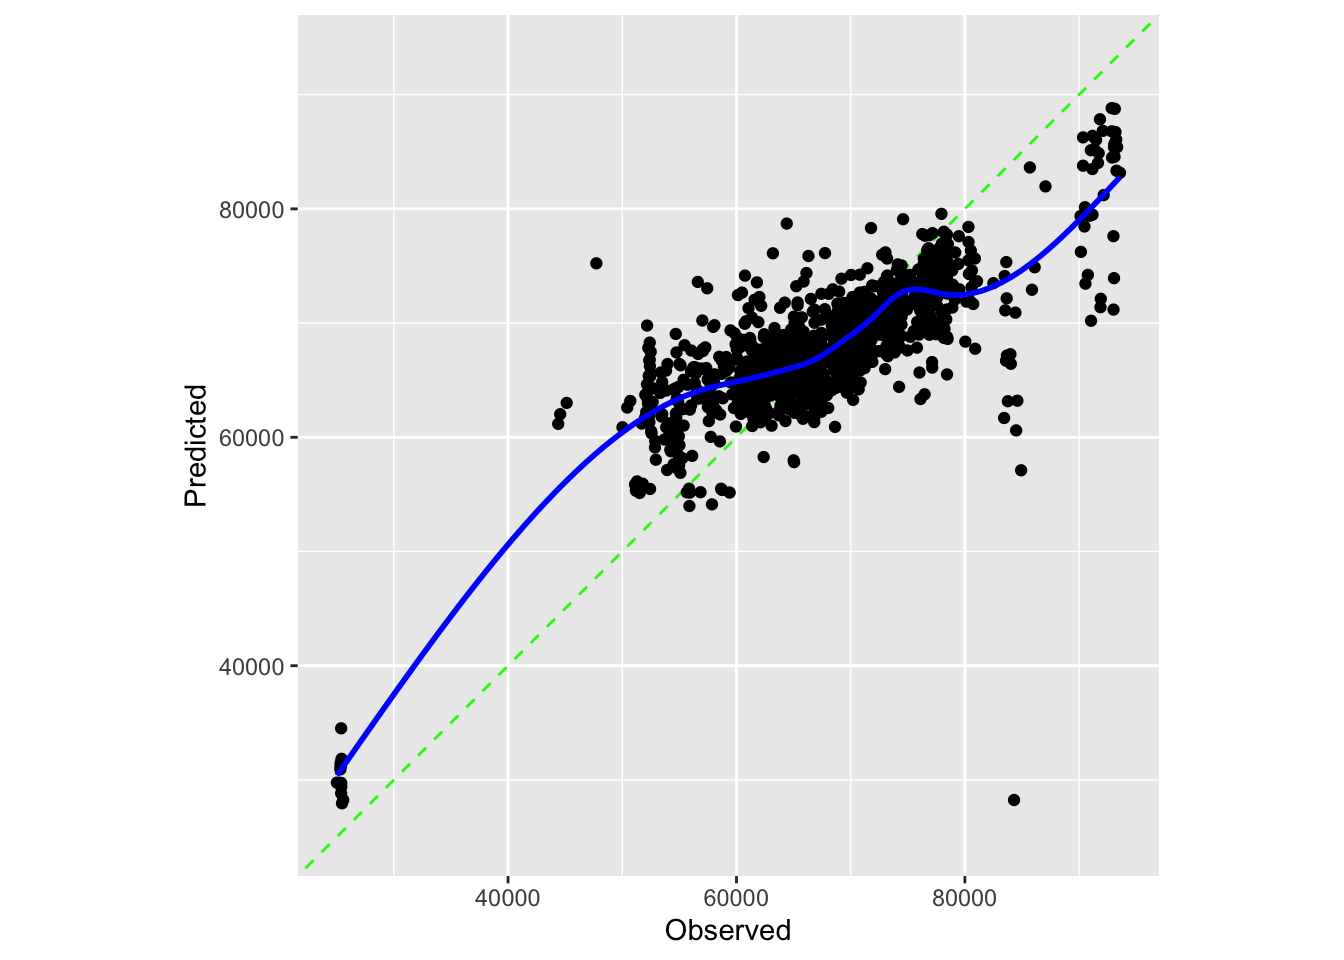
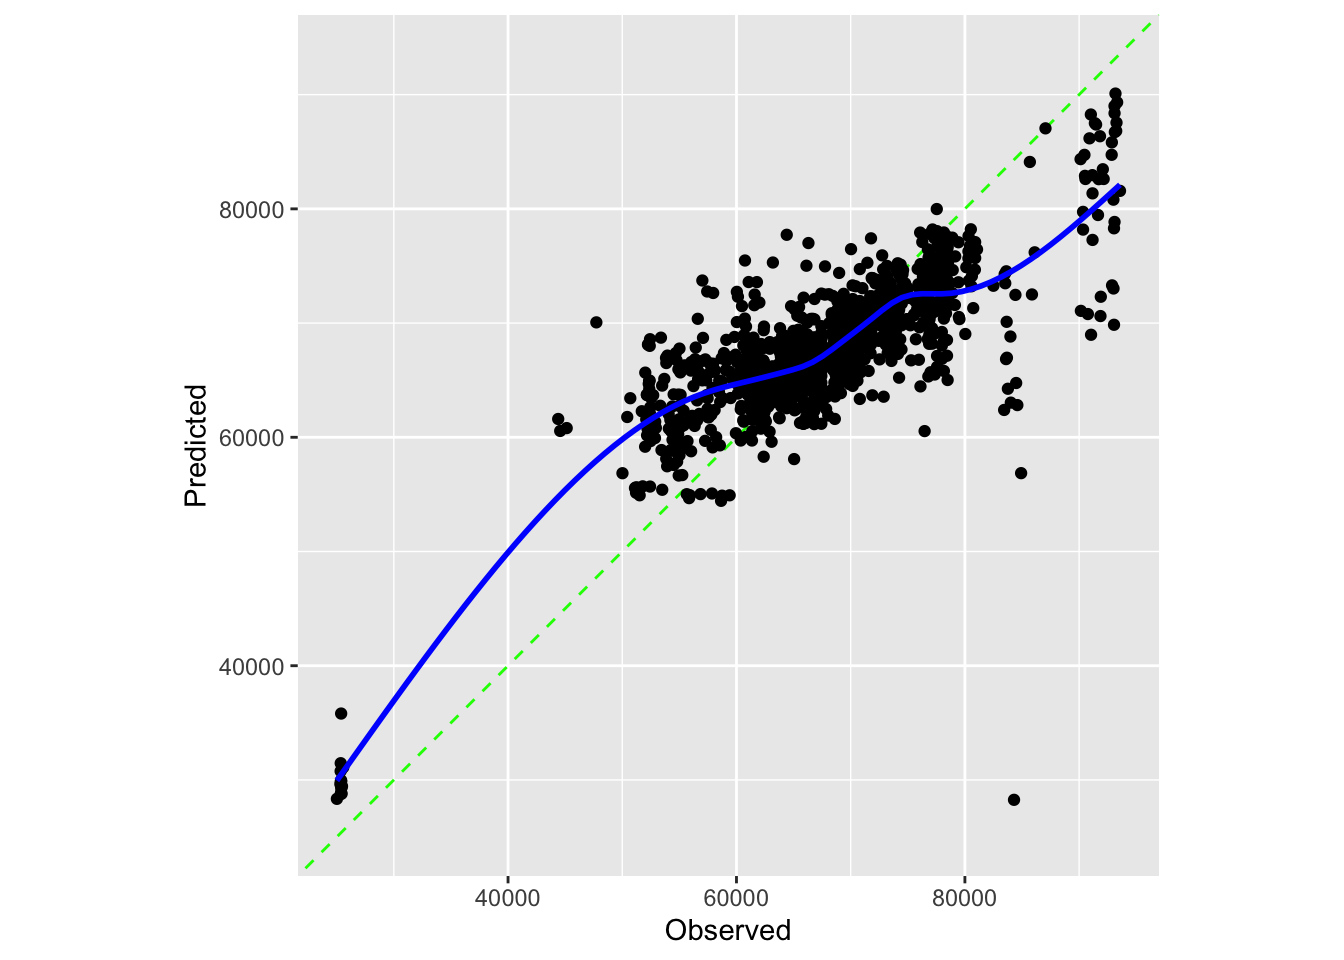
update

diff --git a/docs/Final_Project_Text_And_Code.html b/docs/Final_Project_Text_And_Code.html
@@ -345,7 +345,7 @@ window.Quarto = {
 <span id="cb5-5"><a href="#cb5-5" aria-hidden="true" tabindex="-1"></a>data <span class="ot">&lt;-</span> data <span class="sc">%&gt;%</span></span>
 <span id="cb5-6"><a href="#cb5-6" aria-hidden="true" tabindex="-1"></a>  <span class="fu">left_join</span>(standings, <span class="at">by =</span> <span class="fu">c</span>(<span class="st">"home_team"</span> <span class="ot">=</span> <span class="st">"newteam"</span>, <span class="st">"year"</span>, <span class="st">"team"</span>, <span class="st">"team_name"</span>))</span></code><button title="Copy to Clipboard" class="code-copy-button"><i class="bi"></i></button></pre></div>
 </div>
-<p>I am filtering the data to only include the last 5 years since the NFL changes at a fast pace. In addition, I tested including more data and it made the predictions worse.</p>
+<p>I am filtering the data to only include the last 5 years since the NFL changes at a fast pace. In addition, I tested including more data and it made the predictions worse. I testing on the 2019 data set as it is the most recent data before 2020 which will have accurate measures as covid changed how many people attended in 2020.</p>
 <div class="cell">
 <div class="sourceCode cell-code" id="cb6"><pre class="sourceCode r code-with-copy"><code class="sourceCode r"><span id="cb6-1"><a href="#cb6-1" aria-hidden="true" tabindex="-1"></a>data_train <span class="ot">&lt;-</span> data <span class="sc">%&gt;%</span></span>
 <span id="cb6-2"><a href="#cb6-2" aria-hidden="true" tabindex="-1"></a>  <span class="fu">filter</span>(year <span class="sc">!=</span> <span class="dv">2019</span> <span class="sc">&amp;</span> year <span class="sc">&gt;</span> <span class="dv">2013</span>)</span>
@@ -830,9 +830,9 @@ Computational engine: kknn </code></pre>
 <pre><code># A tibble: 3 × 9
   trees tree_depth   learn_rate .metric .estimator   mean     n std_err .config 
   &lt;int&gt;      &lt;int&gt;        &lt;dbl&gt; &lt;chr&gt;   &lt;chr&gt;       &lt;dbl&gt; &lt;int&gt;   &lt;dbl&gt; &lt;chr&gt;   
-1  2000         15 0.1          rmse    standard    3710.    10    387. Preproc…
-2     1          8 0.00000316   rmse    standard   68883.    10    311. Preproc…
-3  1000          1 0.0000000001 rmse    standard   68883.    10    311. Preproc…</code></pre>
+1  2000         15 0.1          rmse    standard    3710.    10    360. Preproc…
+2     1          8 0.00000316   rmse    standard   68884.    10    280. Preproc…
+3  1000          1 0.0000000001 rmse    standard   68884.    10    280. Preproc…</code></pre>
 </div>
 <div class="sourceCode cell-code" id="cb36"><pre class="sourceCode r code-with-copy"><code class="sourceCode r"><span id="cb36-1"><a href="#cb36-1" aria-hidden="true" tabindex="-1"></a>xgboostR_best <span class="ot">&lt;-</span> <span class="fu">select_by_one_std_err</span>(xgboostR_tune, </span>
 <span id="cb36-2"><a href="#cb36-2" aria-hidden="true" tabindex="-1"></a>                             <span class="at">metric =</span> <span class="st">"rmse"</span>, </span>
@@ -943,16 +943,16 @@ Computational engine: kknn </code></pre>
 <pre><code># A tibble: 256 × 40
     .pred .resid  year week  home_team  away_team winner tie   day   date  time 
     &lt;dbl&gt;  &lt;dbl&gt; &lt;dbl&gt; &lt;fct&gt; &lt;chr&gt;      &lt;chr&gt;     &lt;chr&gt;  &lt;chr&gt; &lt;chr&gt; &lt;chr&gt; &lt;tim&gt;
- 1 35665. 48165.  2019 11    Los Angel… Kansas C… Kansa… &lt;NA&gt;  Mon   Nove… 20:15
- 2 63945. 19670.  2019 9     Jacksonvi… Houston … Houst… &lt;NA&gt;  Sun   Nove… 09:30
- 3 76182. 15686.  2019 15    Dallas Co… Los Ange… Dalla… &lt;NA&gt;  Sun   Dece… 16:25
- 4 70636. 13740.  2019 8     Los Angel… Cincinna… Los A… &lt;NA&gt;  Sun   Octo… 13:00
- 5 79722. 13769.  2019 10    Dallas Co… Minnesot… Minne… &lt;NA&gt;  Sun   Nove… 20:20
- 6 63776.  7054.  2019 1     Carolina … Los Ange… Los A… &lt;NA&gt;  Sun   Sept… 13:00
- 7 68849.  7491.  2019 5     Washingto… New Engl… New E… &lt;NA&gt;  Sun   Octo… 13:00
- 8 60169.  5288.  2019 12    Buffalo B… Denver B… Buffa… &lt;NA&gt;  Sun   Nove… 13:00
- 9 64781.  5970.  2019 7     Atlanta F… Los Ange… Los A… &lt;NA&gt;  Sun   Octo… 13:00
-10 62823.  4978.  2019 14    Buffalo B… Baltimor… Balti… &lt;NA&gt;  Sun   Dece… 13:00
+ 1 33892. 48165.  2019 11    Los Angel… Kansas C… Kansa… &lt;NA&gt;  Mon   Nove… 20:15
+ 2 64587. 19670.  2019 9     Jacksonvi… Houston … Houst… &lt;NA&gt;  Sun   Nove… 09:30
+ 3 75733. 15686.  2019 15    Dallas Co… Los Ange… Dalla… &lt;NA&gt;  Sun   Dece… 16:25
+ 4 70809. 13740.  2019 8     Los Angel… Cincinna… Los A… &lt;NA&gt;  Sun   Octo… 13:00
+ 5 79513. 13769.  2019 10    Dallas Co… Minnesot… Minne… &lt;NA&gt;  Sun   Nove… 20:20
+ 6 64432.  7054.  2019 1     Carolina … Los Ange… Los A… &lt;NA&gt;  Sun   Sept… 13:00
+ 7 68992.  7491.  2019 5     Washingto… New Engl… New E… &lt;NA&gt;  Sun   Octo… 13:00
+ 8 60446.  5288.  2019 12    Buffalo B… Denver B… Buffa… &lt;NA&gt;  Sun   Nove… 13:00
+ 9 65310.  5970.  2019 7     Atlanta F… Los Ange… Los A… &lt;NA&gt;  Sun   Octo… 13:00
+10 63489.  4978.  2019 14    Buffalo B… Baltimor… Balti… &lt;NA&gt;  Sun   Dece… 13:00
 # ℹ 246 more rows
 # ℹ 29 more variables: pts_win &lt;dbl&gt;, pts_loss &lt;dbl&gt;, yds_win &lt;dbl&gt;,
 #   turnovers_win &lt;dbl&gt;, yds_loss &lt;dbl&gt;, turnovers_loss &lt;dbl&gt;,
